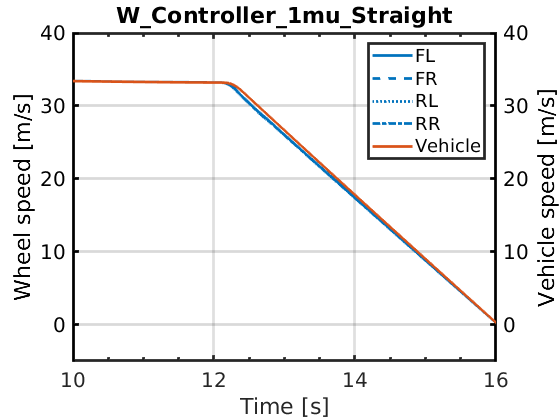
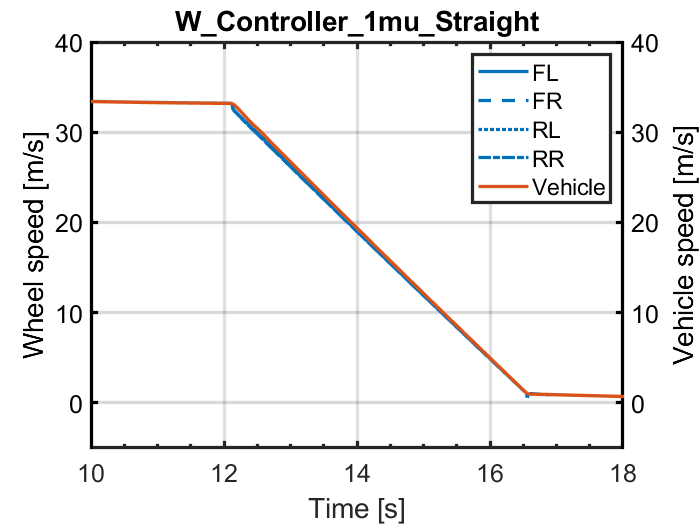
Added the images for the report as well

Changed region(s): [[0.0304, 0.0, 1.0, 0.9286], [0.425, 0.9286, 0.6071, 1.0]]

diff --git a/NIKHIL_DATA/result_noise.m b/NIKHIL_DATA/result_noise.m
@@ -1,0 +1,137 @@
+clear all;
+close all;
+clc;
+
+%% import data
+data = cell(1,6);
+
+files = {'WO_Controller_1mu_Straight.CSV', ...
+    'WO_Controller_Straight.CSV', ...
+    'WO_Controller_mu_split.CSV', ...
+    'PID_1mu.CSV', ...
+    'W_Controller_1mu_Straight_noise.CSV', ...
+    'W_Controller_Straight_noise.CSV', ...
+    'W_Controller_mu_split_noise.CSV', ... 
+    'PID_mu_split.CSV'};
+
+for i = 1:size(files,2)
+    data{i} = importdata(files{i});
+end
+%% plot
+for i = 1:size(files,2)
+    FL = data{i}.data(:,1)*0.32;
+    FR = data{i}.data(:,2)*0.32;
+    RL = data{i}.data(:,3)*0.32;
+    RR = data{i}.data(:,4)*0.32;
+    vel = data{i}.data(:,5);
+    t  = data{i}.data(:,6);
+
+    figure(i);
+    yyaxis left;
+    plot(t, FL);
+    hold on;
+    plot(t, FR);
+    plot(t, RL);
+    plot(t, RR);
+    xlabel('Time [s]');
+    ylabel('Wheel speed [m/s]');
+    legend('FL','FR','RL','RR');
+    hold off;
+    grid on;
+    set(gca, 'YColor', 'k');
+    axis([10 18 -5 40]);
+
+    yyaxis right;
+    plot(t, vel);
+    ylabel('Vehicle speed [m/s]');
+    legend('FL','FR','RL','RR','Vehicle');
+    set(gca,'LineWidth',2,'FontSize',15, 'YColor', 'k','XMinorTick','on');
+    set(findall(gca, 'Type', 'Line'),'LineWidth',2);
+    
+    name = split(files{i}, '.');
+    name = split(name(1), '_');
+    new_name = join(name, '\_');
+    title(sprintf('%s', new_name{1}));
+    axis([10 18 -5 40]);
+    ax = gca;
+    ax.XTick = 10:2:18;
+end
+
+%% subplot
+figure(80);
+for i = 1:size(files,2)
+    FL = data{i}.data(:,1)*0.32;
+    FR = data{i}.data(:,2)*0.32;
+    RL = data{i}.data(:,3)*0.32;
+    RR = data{i}.data(:,4)*0.32;
+    vel = data{i}.data(:,5);
+    t  = data{i}.data(:,6);
+
+    subplot(2,4,i);
+    yyaxis left;
+    plot(t, FL);
+    hold on;
+    plot(t, FR);
+    plot(t, RL);
+    plot(t, RR);
+    xlabel('Time [s]');
+    ylabel('Wheel speed [m/s]');
+    legend('FL','FR','RL','RR');
+    hold off;
+    grid on;
+    set(gca, 'YColor', 'k');
+    axis([10 18 -5 40]);
+
+    yyaxis right;
+    plot(t, vel);
+    ylabel('Vehicle speed [m/s]');
+    legend('FL','FR','RL','RR','Vehicle');
+    set(gca,'LineWidth',2,'FontSize',15, 'YColor', 'k','XMinorTick','on');
+    set(findall(gca, 'Type', 'Line'),'LineWidth',2);
+    
+    name = split(files{i}, '.');
+    name = split(name(1), '_');
+    new_name = join(name, '\_');
+    title(sprintf('%s', new_name{1}));
+    axis([10 18 -5 40]);
+    ax = gca;
+    ax.XTick = 10:2:18;   
+end
+
+%% mu-comparison
+% PID_1mu
+FL_PID = data{4}.data(:,1)*0.32;
+FR_PID = data{4}.data(:,2)*0.32;
+RL_PID = data{4}.data(:,3)*0.32;
+RR_PID = data{4}.data(:,4)*0.32;
+% W_Controller_1mu_Straight
+FL_W = data{5}.data(:,1)*0.32;
+FR_W = data{5}.data(:,2)*0.32;
+RL_W = data{5}.data(:,3)*0.32;
+RR_W = data{5}.data(:,4)*0.32;
+
+figure(37);
+
+t  = data{4}.data(:,6);
+plot(t, FL_PID, '-','Color', [.1 .4 .9]);
+hold on;
+plot(t, FR_PID, '--','Color', [.1 .4 .9]);
+plot(t, RL_PID, '-.','Color', [.1 .4 .9]);
+plot(t, RR_PID, ':','Color', [.1 .4 .9]);
+t  = data{5}.data(:,6);
+plot(t, FL_W, '-','Color', [.9 .3 .2]);
+plot(t, FR_W, '--','Color', [.9 .3 .2]);
+plot(t, RL_W, '-.','Color', [.9 .3 .2]);
+plot(t, RR_W, ':','Color', [.9 .3 .2]);
+xlabel('Time [s]');
+ylabel('Wheel speed [m/s]');
+legend('FL (PID)','FR (PID)','RL (PID)','RR (PID)', 'FL (LQR)','FR (LQR)','RL (LQR)','RR (LQR)');
+hold off;
+grid on;
+axis([10 18 -5 40]);
+set(gca,'LineWidth',2,'FontSize',15, 'YColor', 'k','XMinorTick','on');
+set(findall(gca, 'Type', 'Line'),'LineWidth',2);
+title({'LQR, PID Controller Wheel Speed ';'comparison on high friction road'});
+axis([10 18 -5 40]);
+ax = gca;
+ax.XTick = 10:2:18;
